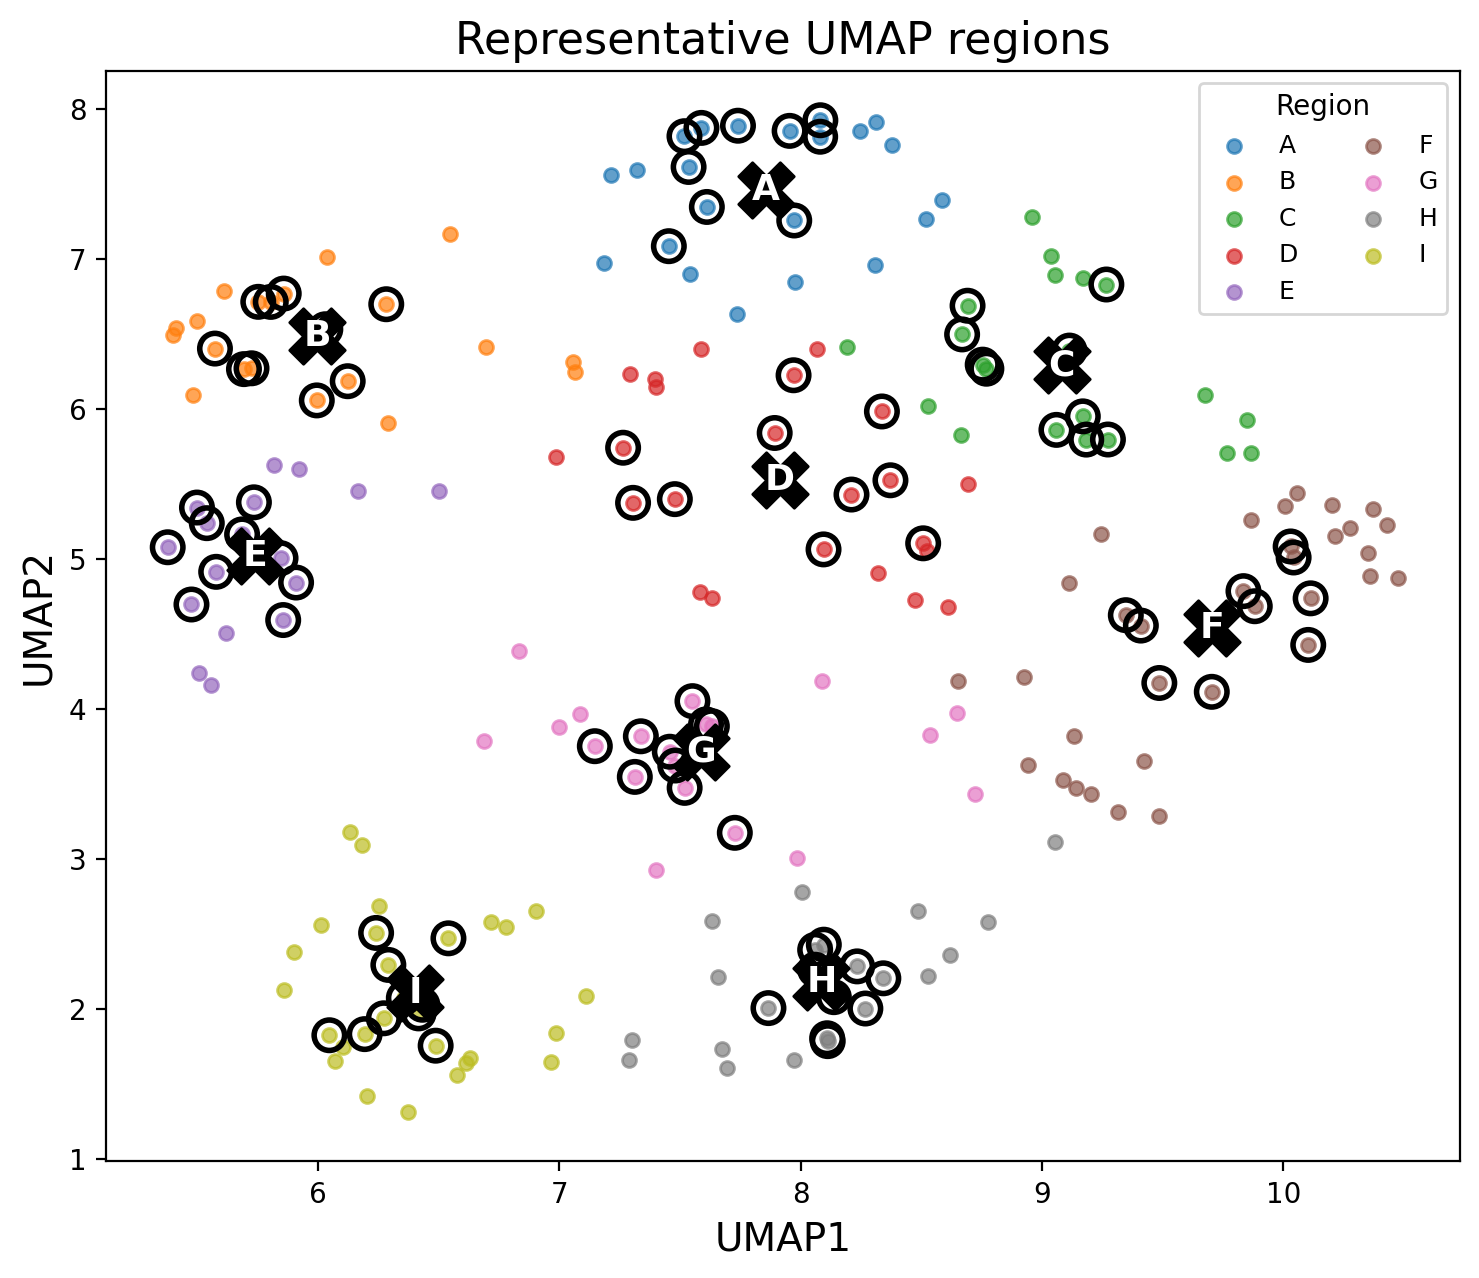
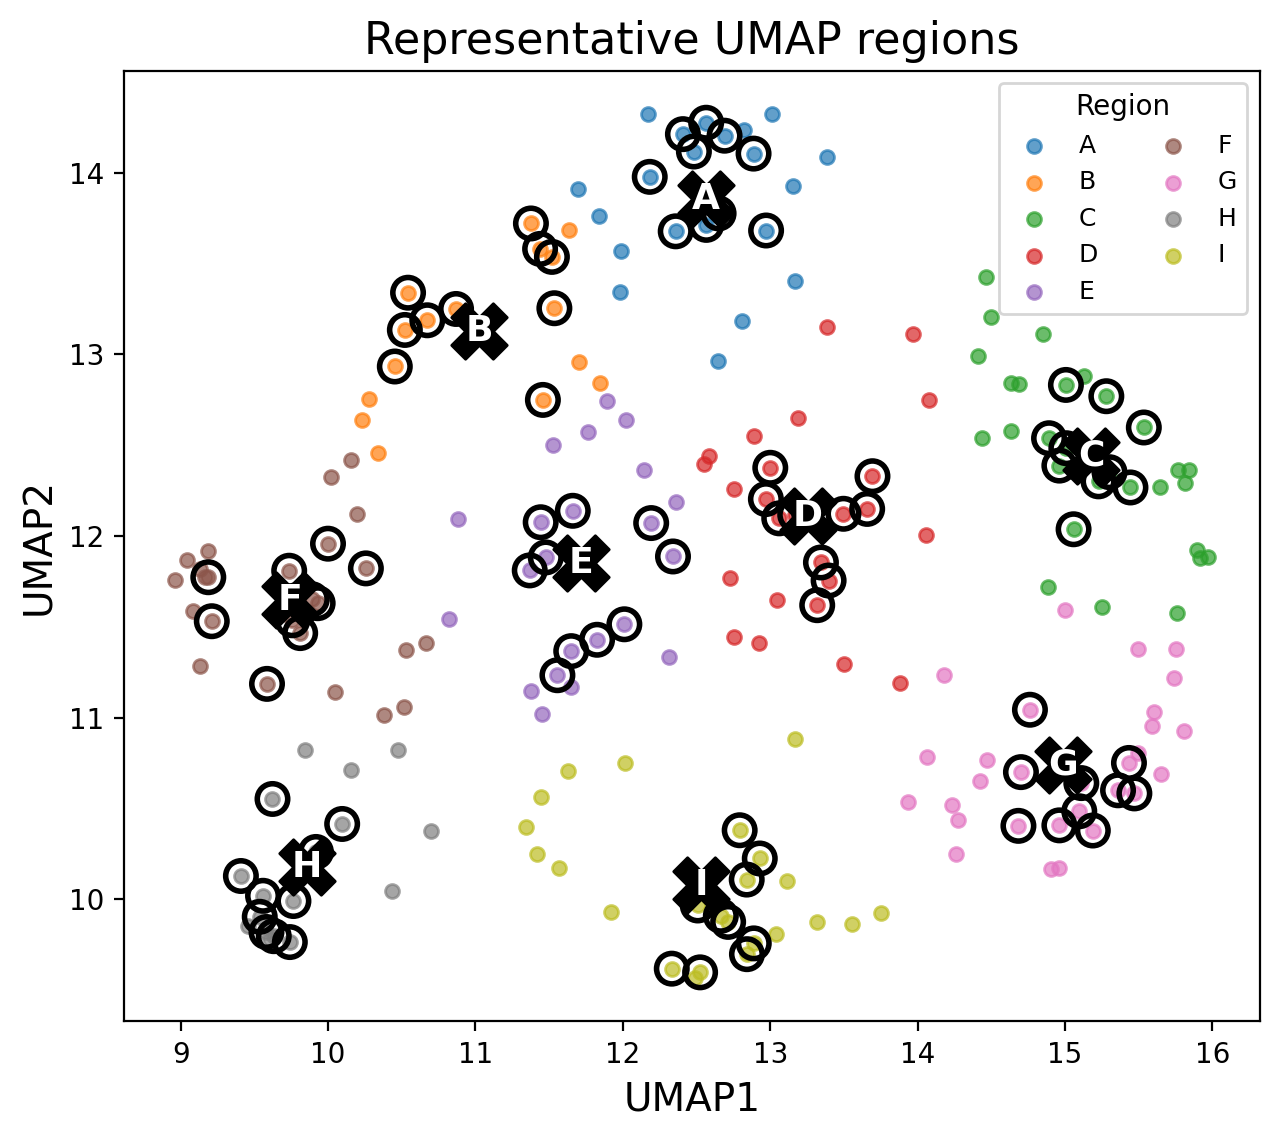
working on dwarf galaxies!

diff --git a/scripts/make_visual_review_umap_map.py b/scripts/make_visual_review_umap_map.py
@@ -1,0 +1,160 @@
+#!/usr/bin/env python
+
+from pathlib import Path
+import re
+import argparse
+import pandas as pd
+import matplotlib.pyplot as plt
+from PIL import Image, ImageOps, ImageDraw
+from matplotlib.offsetbox import OffsetImage, AnnotationBbox
+
+
+def clean_string(x):
+    x = str(x)
+    if x.startswith("b'") and x.endswith("'"):
+        x = x[2:-1]
+    return x
+
+
+def get_largest_legacy_jpg(cutout_dir, tag):
+    files = sorted(Path(cutout_dir).glob(f"{tag}-legacy-*.jpg"))
+
+    def get_number(path):
+        m = re.search(r"legacy-(\d+)\.jpg$", path.name)
+        return int(m.group(1)) if m else -1
+
+    return max(files, key=get_number) if files else None
+
+
+def make_pair_thumbnail(
+    legacy_file,
+    csgr_file,
+    tag=None,
+    thumb_h=90,
+    gap=4,
+    border=3,
+):
+    im1 = Image.open(legacy_file).convert("RGB")
+    im2 = Image.open(csgr_file).convert("RGB")
+
+    # resize both to same height
+    im1 = im1.resize((int(im1.width * thumb_h / im1.height), thumb_h))
+    im2 = im2.resize((int(im2.width * thumb_h / im2.height), thumb_h))
+
+    w = im1.width + im2.width + gap
+    h = thumb_h
+
+    pair = Image.new("RGB", (w, h), "white")
+    pair.paste(im1, (0, 0))
+    pair.paste(im2, (im1.width + gap, 0))
+
+    # add border around pair
+    pair = ImageOps.expand(pair, border=border, fill="black")
+
+    return pair
+
+
+def plot_cutouts_in_umap_space(
+    csvfile,
+    base_dir="/data-pool/Halpha/hapy-output-20260620",
+    outfile="umap_cutouts_legacy_csgr.png",
+    group_col="umap_region",
+    tag_col="TAG",
+    xcol="UMAP1",
+    ycol="UMAP2",
+    thumb_h=80,
+    zoom=0.55,
+    figsize=(16, 10),
+    dpi=200,
+):
+    df = pd.read_csv(csvfile)
+
+    for col in [tag_col, group_col]:
+        if col in df.columns:
+            df[col] = df[col].apply(clean_string)
+
+    fig, ax = plt.subplots(figsize=figsize)
+
+    # faint background points
+    ax.scatter(
+        df[xcol],
+        df[ycol],
+        s=12,
+        color="0.75",
+        alpha=0.35,
+        zorder=1,
+    )
+
+    base_dir = Path(base_dir)
+
+    for _, row in df.iterrows():
+        tag = clean_string(row[tag_col])
+        x = row[xcol]
+        y = row[ycol]
+
+        cutout_dir = base_dir / "html" / "cutouts" / tag
+        legacy_file = get_largest_legacy_jpg(cutout_dir, tag)
+        csgr_file = cutout_dir / f"{tag}-CS-gr.png"
+
+        if legacy_file is None or not csgr_file.exists():
+            print(f"Skipping {tag}: missing legacy or CS-gr")
+            continue
+
+        pair = make_pair_thumbnail(
+            legacy_file,
+            csgr_file,
+            tag=tag,
+            thumb_h=thumb_h,
+        )
+
+        imagebox = OffsetImage(pair, zoom=zoom)
+
+        ab = AnnotationBbox(
+            imagebox,
+            (x, y),
+            frameon=False,
+            pad=0.0,
+            zorder=3,
+        )
+
+        ax.add_artist(ab)
+
+    ax.set_xlabel("UMAP1", fontsize=16)
+    ax.set_ylabel("UMAP2", fontsize=16)
+    ax.set_title("Representative galaxies in UMAP morphology space", fontsize=18)
+
+    dx = 0.08 * (df[xcol].max() - df[xcol].min())
+    dy = 0.08 * (df[ycol].max() - df[ycol].min())
+
+    ax.set_xlim(df[xcol].min() - dx, df[xcol].max() + dx)
+    ax.set_ylim(df[ycol].min() - dy, df[ycol].max() + dy)
+
+    ax.tick_params(labelsize=12)
+
+    fig.tight_layout()
+    fig.savefig(outfile, dpi=dpi, bbox_inches="tight")
+    print(f"Wrote {outfile}")
+
+    plt.show()
+
+
+def main():
+    parser = argparse.ArgumentParser()
+    parser.add_argument("csvfile")
+    parser.add_argument("--base-dir", default="/data-pool/Halpha/hapy-output-20260620")
+    parser.add_argument("--outfile", default="umap_cutouts_legacy_csgr.png")
+    parser.add_argument("--thumb-h", type=int, default=80)
+    parser.add_argument("--zoom", type=float, default=0.55)
+    args = parser.parse_args()
+
+    plot_cutouts_in_umap_space(
+        args.csvfile,
+        base_dir=args.base_dir,
+        outfile=args.outfile,
+        thumb_h=args.thumb_h,
+        zoom=args.zoom,
+    )
+
+
+if __name__ == "__main__":
+    main()